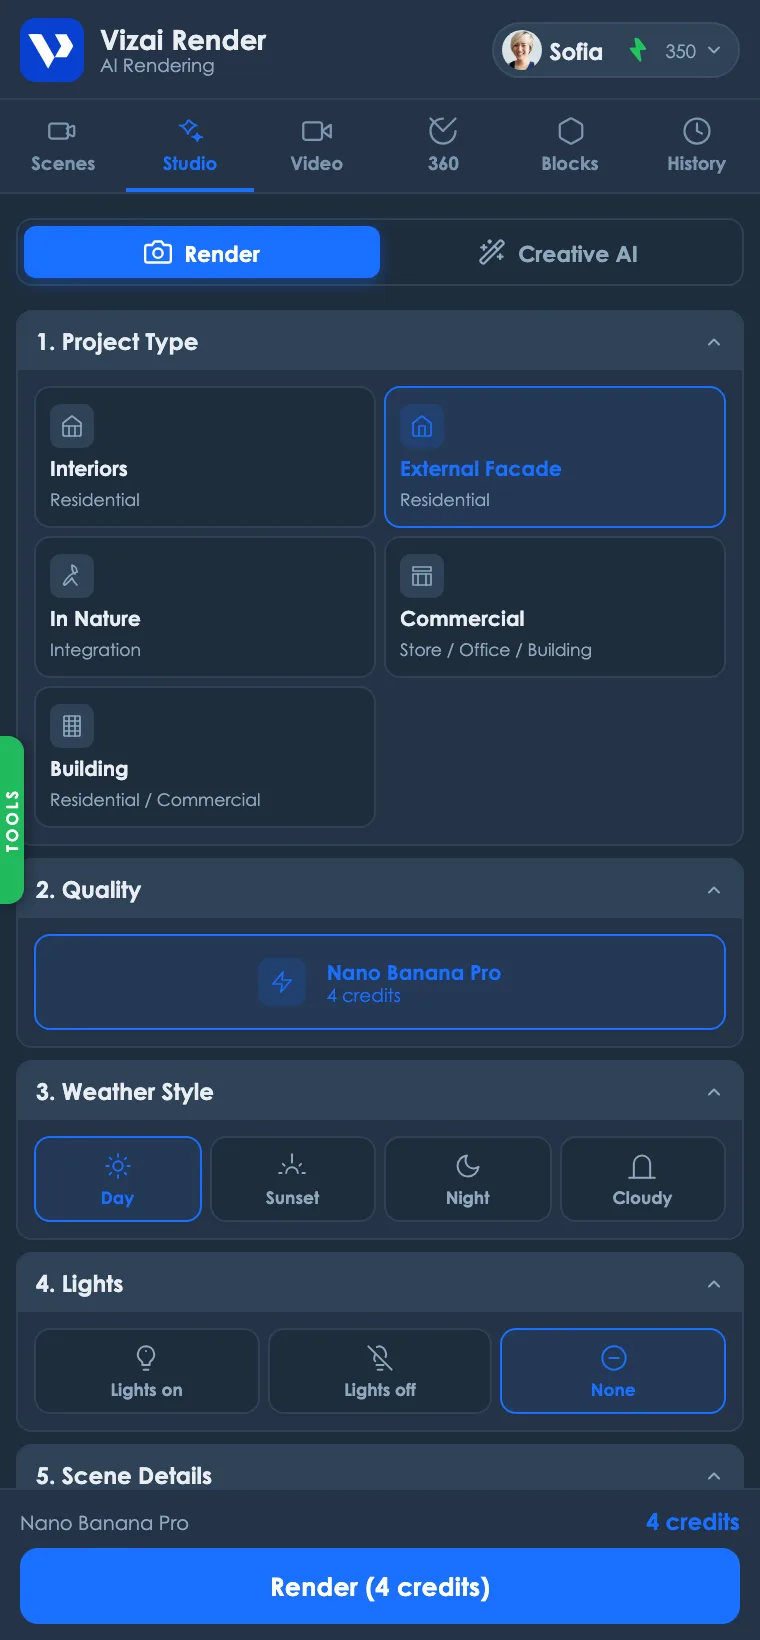
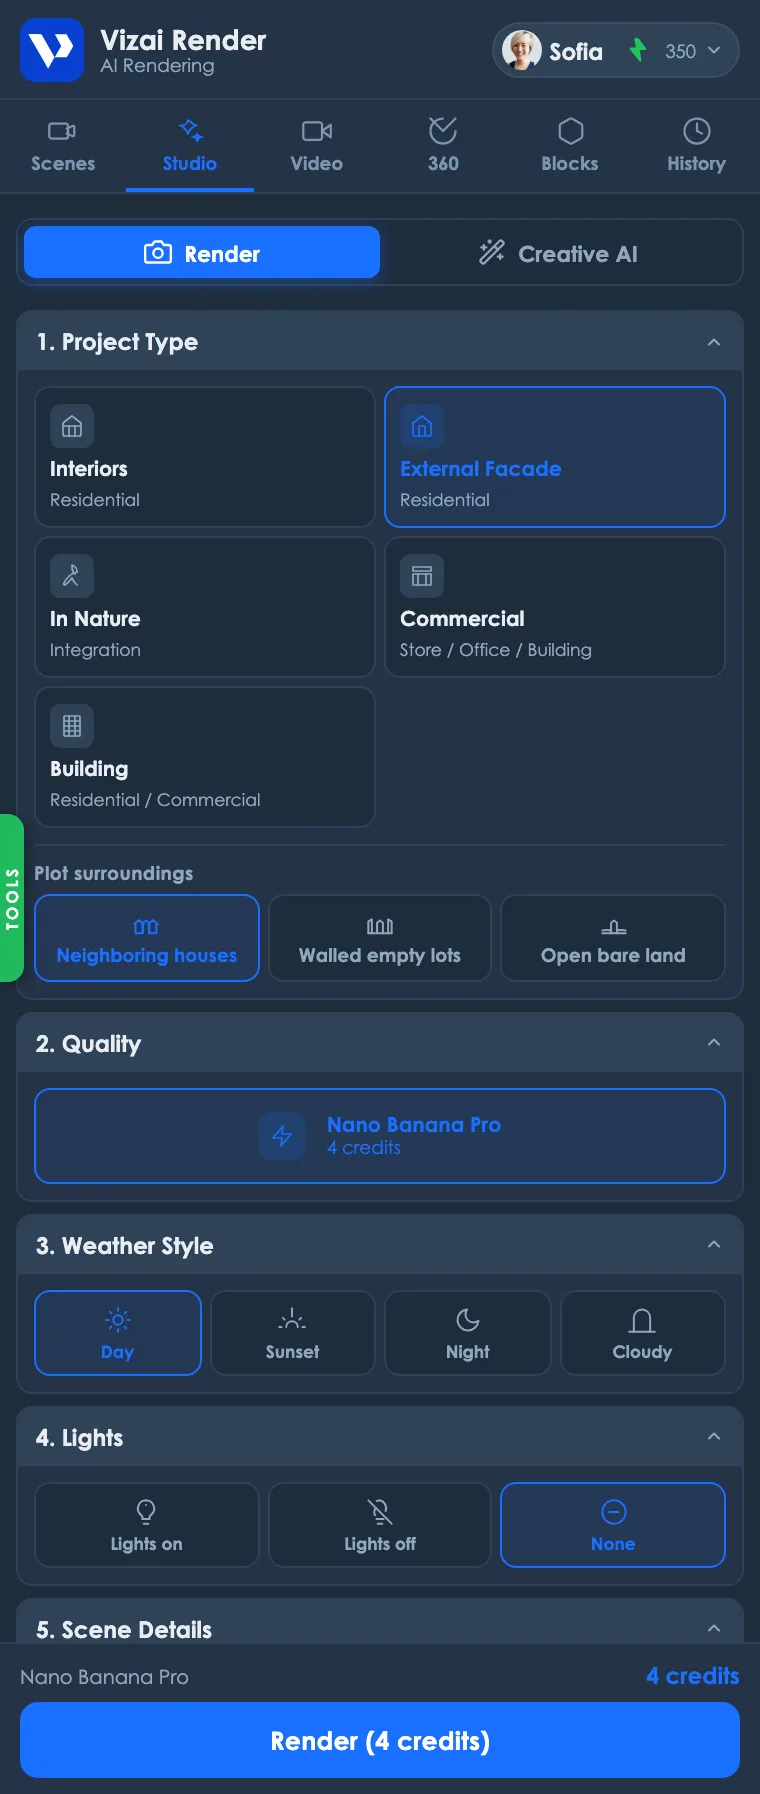
feat(demo,treinamento): mostra a escolha de entorno da Fachada Externa
O plugin 1.0.28 passou a deixar o usuário escolher o entorno do terreno
na Fachada Externa — casas vizinhas (o padrão de sempre), lotes com muro
de divisa ou terreno aberto. O demo e o treinamento ficaram descrevendo
uma tela que não existe mais.

Demo ganha a mesma linha do painel, escondida por padrão e visível só
com Fachada Externa ativa. Continua sendo simulação: os botões
selecionam, mas não há render por trás.

No guia "Primeiro render", o passo 1 agora explica a segunda escolha e
o que cada opção faz, nos três idiomas.

Os três prints da aba Estúdio foram refeitos pela mesma receita das
originais (Playwright sobre o demo, 380x820 lógicos em escala 2, webp
760px q82). Eles mostram justamente Fachada Externa selecionada, que é
o estado onde a linha nova aparece — então estavam desatualizados de
forma visível. Altura foi de 1640 para 1794 pra acomodar a linha sem
perder os 5 passos até o botão Renderizar.

diff --git a/public/demo/index.html b/public/demo/index.html
@@ -2661,6 +2661,28 @@
       color: #1a6fff
     }
 
+    /* Sub-opção de entorno — só aparece quando "Fachada Externa" está ativa */
+    #entorno-row {
+      display: none;
+      margin-top: 8px;
+      padding-top: 8px;
+      border-top: 0.5px solid #2e4257
+    }
+
+    #entorno-grid .lcard span {
+      font-size: 9.4px;
+      text-align: center;
+      line-height: 1.25
+    }
+
+    .entorno-lbl {
+      font-size: 9.4px;
+      font-weight: 700;
+      color: #8fa8be;
+      margin-bottom: 5px;
+      letter-spacing: .2px
+    }
+
     textarea {
       width: 100%;
       resize: none;
@@ -6054,6 +6076,39 @@
                       <div class="psb" data-i18n="proj.building_sub">Residencial / Comercial</div>
                     </div>
                   </div>
+                  <div id="entorno-row">
+                    <div class="entorno-lbl" data-i18n="entorno.title">Entorno do terreno</div>
+                    <div class="lgrid-3" id="entorno-grid">
+                      <div class="lcard active" data-value="vizinhos" onclick="pickEntorno(this)">
+                        <svg viewBox="0 0 24 24">
+                          <path d="M2 12l4-3.5L10 12" />
+                          <path d="M3 12v8h6v-8" />
+                          <path d="M22 12l-4-3.5L14 12" />
+                          <path d="M21 12v8h-6v-8" />
+                          <path d="M9.5 20v-9L12 9l2.5 2v9" />
+                        </svg>
+                        <span data-i18n="entorno.houses">Casas vizinhas</span>
+                      </div>
+                      <div class="lcard" data-value="lotes" onclick="pickEntorno(this)">
+                        <svg viewBox="0 0 24 24">
+                          <path d="M2 20V10l3-2v12" />
+                          <path d="M22 20V10l-3-2v12" />
+                          <path d="M9.5 20v-9L12 9l2.5 2v9" />
+                          <line x1="2" y1="20" x2="22" y2="20" />
+                        </svg>
+                        <span data-i18n="entorno.lots">Lotes com muro</span>
+                      </div>
+                      <div class="lcard" data-value="vazio" onclick="pickEntorno(this)">
+                        <svg viewBox="0 0 24 24">
+                          <path d="M9.5 20v-9L12 9l2.5 2v9" />
+                          <line x1="2" y1="20" x2="22" y2="20" />
+                          <path d="M2 17.5c2.5-.6 4.5-.6 7-.2" />
+                          <path d="M22 17.5c-2.5-.6-4.5-.6-7-.2" />
+                        </svg>
+                        <span data-i18n="entorno.bare">Terreno vazio</span>
+                      </div>
+                    </div>
+                  </div>
                 </div>
               </div>
             </div>
@@ -9248,7 +9303,17 @@
       document.getElementById('ia-file-input').value = "";
     }
 
-    function pickProj(el) { document.getElementById('projgrid').querySelectorAll('.proj-card').forEach(c => c.classList.remove('active')); el.classList.add('active') }
+    function pickProj(el) { document.getElementById('projgrid').querySelectorAll('.proj-card').forEach(c => c.classList.remove('active')); el.classList.add('active'); syncEntornoRow() }
+
+    // A escolha de entorno só faz sentido em Fachada Externa.
+    function syncEntornoRow() {
+      const row = document.getElementById('entorno-row');
+      if (!row) return;
+      const proj = document.querySelector('#projgrid .proj-card.active');
+      row.style.display = (proj && proj.dataset.value === 'fachada') ? 'block' : 'none';
+    }
+
+    function pickEntorno(el) { document.getElementById('entorno-grid').querySelectorAll('.lcard').forEach(c => c.classList.remove('active')); el.classList.add('active') }
     function pickQ(el, c) { document.getElementById('qgrid').querySelectorAll('.qcard').forEach(x => x.classList.remove('active')); el.classList.add('active'); qCost = c; updateCost() }
     function updateCost() {
       const cr = t('cost.credits');
@@ -10692,7 +10757,7 @@ const DL_SVG = '<svg viewBox="0 0 24 24"><path d="M21 15v4a2 2 0 0 1-2 2H5a2 2 0
         'fl.added': 'Trecho somado: clique sem Shift pra gerar', 'fl.ok': 'Luz criada!', 'fl.no_pick': 'Clique numa linha ou face', 'fl.no_sel': 'Selecione uma luz', 'fl.cleared': 'Luzes apagadas', 'fl.none': 'Nenhuma luz no modelo', 'fl.err': 'Erro',
         'shadow.title': 'Iluminação da cena', 'shadow.hint': 'Ajuste Claro e Escuro juntos para clarear a cena e revelar mais detalhes no render.', 'shadow.light': 'Claro', 'shadow.dark': 'Escuro', 'shadow.use_sun': 'Usar sol para sombreamento', 'shadow.use_sun_sub': 'Melhora visibilidade da cena no render', 'shadow.recommend_hint': 'Configuração recomendada:', 'shadow.recommend_ext': 'Externa', 'shadow.recommend_int': 'Interior',
         'studio.proj_type': '1. Tipo de projeto', 'studio.quality': '2. Qualidade', 'studio.lighting': '3. Estilo de clima', 'studio.lights': '4. Luzes', 'studio.details': '5. Detalhes da cena',
-        'proj.interior': 'Interiores', 'proj.interior_sub': 'Residencial', 'proj.facade': 'Fachada Externa', 'proj.facade_sub': 'Residencial', 'proj.nature': 'Meio à Natureza', 'proj.nature_sub': 'Integração', 'proj.commercial': 'Comercial', 'proj.commercial_sub': 'Loja / Escritório / Edifício', 'proj.building': 'Edifício', 'proj.building_sub': 'Residencial / Comercial',
+        'proj.interior': 'Interiores', 'proj.interior_sub': 'Residencial', 'proj.facade': 'Fachada Externa', 'proj.facade_sub': 'Residencial', 'proj.nature': 'Meio à Natureza', 'proj.nature_sub': 'Integração', 'proj.commercial': 'Comercial', 'proj.commercial_sub': 'Loja / Escritório / Edifício', 'proj.building': 'Edifício', 'proj.building_sub': 'Residencial / Comercial', 'entorno.title': 'Entorno do terreno', 'entorno.houses': 'Casas vizinhas', 'entorno.lots': 'Lotes com muro', 'entorno.bare': 'Terreno vazio',
         'light.day': 'Dia', 'light.sunset': 'Pôr do sol', 'light.night': 'Noite', 'light.cloudy': 'Nublado',
         'lights.on': 'Luzes acesas', 'lights.off': 'Luzes apagadas', 'lights.none': 'Nenhum',
         'pano.title': 'Panorama AI', 'pano.sub': 'Geração de Panorama 360° com IA',
@@ -10875,7 +10940,7 @@ const DL_SVG = '<svg viewBox="0 0 24 24"><path d="M21 15v4a2 2 0 0 1-2 2H5a2 2 0
         'fl.added': 'Segment added: click without Shift to create', 'fl.ok': 'Light created!', 'fl.no_pick': 'Click a line or face', 'fl.no_sel': 'Select a light', 'fl.cleared': 'Lights deleted', 'fl.none': 'No lights in the model', 'fl.err': 'Error',
         'shadow.title': 'Scene Lighting', 'shadow.hint': 'Adjust Light and Dark together to brighten the scene and reveal more details in the render.', 'shadow.light': 'Light', 'shadow.dark': 'Dark', 'shadow.use_sun': 'Use sun for shadows', 'shadow.use_sun_sub': 'Improves scene visibility in render', 'shadow.recommend_hint': 'Recommended setting:', 'shadow.recommend_ext': 'Exterior', 'shadow.recommend_int': 'Interior',
         'studio.proj_type': '1. Project Type', 'studio.quality': '2. Quality', 'studio.lighting': '3. Weather Style', 'studio.lights': '4. Lights', 'studio.details': '5. Scene Details',
-        'proj.interior': 'Interiors', 'proj.interior_sub': 'Residential', 'proj.facade': 'External Facade', 'proj.facade_sub': 'Residential', 'proj.nature': 'In Nature', 'proj.nature_sub': 'Integration', 'proj.commercial': 'Commercial', 'proj.commercial_sub': 'Store / Office / Building', 'proj.building': 'Building', 'proj.building_sub': 'Residential / Commercial',
+        'proj.interior': 'Interiors', 'proj.interior_sub': 'Residential', 'proj.facade': 'External Facade', 'proj.facade_sub': 'Residential', 'proj.nature': 'In Nature', 'proj.nature_sub': 'Integration', 'proj.commercial': 'Commercial', 'proj.commercial_sub': 'Store / Office / Building', 'proj.building': 'Building', 'proj.building_sub': 'Residential / Commercial', 'entorno.title': 'Plot surroundings', 'entorno.houses': 'Neighboring houses', 'entorno.lots': 'Walled empty lots', 'entorno.bare': 'Open bare land',
         'light.day': 'Day', 'light.sunset': 'Sunset', 'light.night': 'Night', 'light.cloudy': 'Cloudy',
         'lights.on': 'Lights on', 'lights.off': 'Lights off', 'lights.none': 'None',
         'pano.title': 'Panorama AI', 'pano.sub': 'AI 360° Panorama Generation',
@@ -11058,7 +11123,7 @@ const DL_SVG = '<svg viewBox="0 0 24 24"><path d="M21 15v4a2 2 0 0 1-2 2H5a2 2 0
         'fl.added': 'Tramo añadido: haz clic sin Shift para generar', 'fl.ok': '¡Luz creada!', 'fl.no_pick': 'Haz clic en una línea o cara', 'fl.no_sel': 'Selecciona una luz', 'fl.cleared': 'Luces borradas', 'fl.none': 'No hay luces en el modelo', 'fl.err': 'Error',
         'shadow.title': 'Iluminación de la escena', 'shadow.hint': 'Ajusta Claro y Oscuro juntos para iluminar la escena y revelar más detalles en el render.', 'shadow.light': 'Claro', 'shadow.dark': 'Oscuro', 'shadow.use_sun': 'Usar sol para sombras', 'shadow.use_sun_sub': 'Mejora la visibilidad de la escena en el render', 'shadow.recommend_hint': 'Configuración recomendada:', 'shadow.recommend_ext': 'Exterior', 'shadow.recommend_int': 'Interior',
         'studio.proj_type': '1. Tipo de proyecto', 'studio.quality': '2. Calidad', 'studio.lighting': '3. Estilo de clima', 'studio.lights': '4. Luces', 'studio.details': '5. Detalles de la escena',
-        'proj.interior': 'Interiores', 'proj.interior_sub': 'Residencial', 'proj.facade': 'Fachada Externa', 'proj.facade_sub': 'Residencial', 'proj.nature': 'En la Naturaleza', 'proj.nature_sub': 'Integración', 'proj.commercial': 'Comercial', 'proj.commercial_sub': 'Tienda / Oficina / Edificio', 'proj.building': 'Edificio', 'proj.building_sub': 'Residencial / Comercial',
+        'proj.interior': 'Interiores', 'proj.interior_sub': 'Residencial', 'proj.facade': 'Fachada Externa', 'proj.facade_sub': 'Residencial', 'proj.nature': 'En la Naturaleza', 'proj.nature_sub': 'Integración', 'proj.commercial': 'Comercial', 'proj.commercial_sub': 'Tienda / Oficina / Edificio', 'proj.building': 'Edificio', 'proj.building_sub': 'Residencial / Comercial', 'entorno.title': 'Entorno del terreno', 'entorno.houses': 'Casas vecinas', 'entorno.lots': 'Lotes con muro', 'entorno.bare': 'Terreno abierto',
         'light.day': 'Día', 'light.sunset': 'Atardecer', 'light.night': 'Noche', 'light.cloudy': 'Nublado',
         'lights.on': 'Luces encendidas', 'lights.off': 'Luces apagadas', 'lights.none': 'Ninguna',
         'pano.title': 'Panorama AI', 'pano.sub': 'Generación de Panorama 360° con IA',

diff --git a/lib/treinamento/es.ts b/lib/treinamento/es.ts
@@ -241,7 +241,7 @@ export const esArticles: Record<string, ArticleContent> = {
         items: [
           {
             title: "Tipo de proyecto",
-            text: "Le dice a la IA qué está viendo: Interiores, Fachada Externa, En la Naturaleza (integración con paisaje), Comercial (tienda, oficina) o Edificio. Cada tipo recibe un tratamiento específico de iluminación y contexto.",
+            text: "Le dice a la IA qué está viendo: Interiores, Fachada Externa, En la Naturaleza (integración con paisaje), Comercial (tienda, oficina) o Edificio. Cada tipo recibe un tratamiento específico de iluminación y contexto. Al elegir **Fachada Externa** aparece una segunda opción, el entorno del terreno: **Casas vecinas** (la predeterminada — una casa a cada lado, del mismo nivel que tu proyecto), **Lotes con muro** (terrenos vacíos con muro o cerca divisoria) o **Terreno abierto** (terreno abierto, sin muros ni cercas).",
           },
           {
             title: "Calidad",

diff --git a/lib/treinamento/pt.ts b/lib/treinamento/pt.ts
@@ -241,7 +241,7 @@ export const ptArticles: Record<string, ArticleContent> = {
         items: [
           {
             title: "Tipo de projeto",
-            text: "Diz à IA o que ela está vendo: Interiores, Fachada Externa, Meio à Natureza (integração com paisagem), Comercial (loja, escritório) ou Edifício. Cada tipo usa um tratamento específico de iluminação e contexto.",
+            text: "Diz à IA o que ela está vendo: Interiores, Fachada Externa, Meio à Natureza (integração com paisagem), Comercial (loja, escritório) ou Edifício. Cada tipo usa um tratamento específico de iluminação e contexto. Ao escolher **Fachada Externa** aparece uma segunda escolha, o entorno do terreno: **Casas vizinhas** (o padrão — uma casa de cada lado, no mesmo padrão do seu projeto), **Lotes com muro** (terrenos vagos com muro ou cerca de divisa) ou **Terreno vazio** (terreno aberto, sem muro nem cerca).",
           },
           {
             title: "Qualidade",

diff --git a/lib/treinamento/en.ts b/lib/treinamento/en.ts
@@ -241,7 +241,7 @@ export const enArticles: Record<string, ArticleContent> = {
         items: [
           {
             title: "Project type",
-            text: "Tells the AI what it's looking at: Interiors, Exterior Facade, Set in Nature (landscape integration), Commercial (store, office) or Building. Each type gets specific lighting and context treatment.",
+            text: "Tells the AI what it's looking at: Interiors, Exterior Facade, Set in Nature (landscape integration), Commercial (store, office) or Building. Each type gets specific lighting and context treatment. Picking **Exterior Facade** reveals a second choice, the plot surroundings: **Neighboring houses** (the default — one house on each side, matching your project's standard), **Walled empty lots** (vacant plots with a boundary wall or fence) or **Open bare land** (open ground, no walls or fences).",
           },
           {
             title: "Quality",
